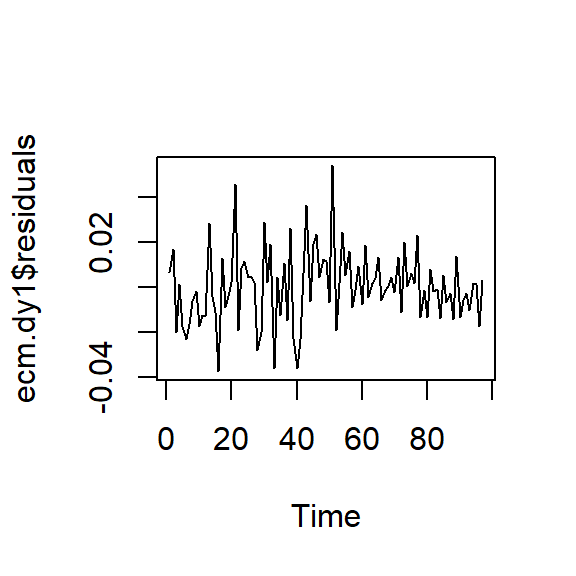
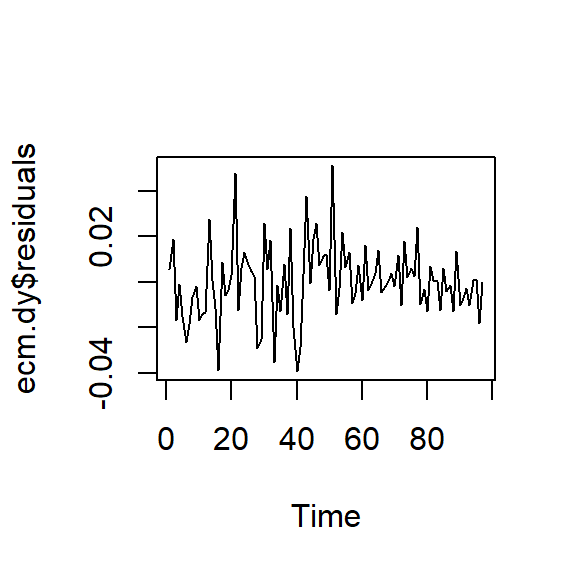
Tmea2_5

diff --git a/Tema_2/presentacion5.html b/Tema_2/presentacion5.html
@@ -918,7 +918,7 @@ tau1 -2.6 -1.95 -1.61</code></pre>
 <li>Arreglo de la base:</li>
 </ul>
 <div class="cell">
-<div class="sourceCode cell-code" id="cb26"><pre class="sourceCode numberSource r number-lines code-with-copy"><code class="sourceCode r"><span id="cb26-1"><a href=""></a>error.lagged <span class="ot">&lt;-</span> error[<span class="sc">-</span><span class="fu">c</span>(<span class="dv">1</span>, <span class="dv">99</span>)]</span>
+<div class="sourceCode cell-code" id="cb26"><pre class="sourceCode numberSource r number-lines code-with-copy"><code class="sourceCode r"><span id="cb26-1"><a href=""></a>error.lagged <span class="ot">&lt;-</span> error[<span class="sc">-</span><span class="fu">c</span>(<span class="dv">98</span>, <span class="dv">99</span>)]</span>
 <span id="cb26-2"><a href=""></a>dy <span class="ot">&lt;-</span> <span class="fu">diff</span>(y)</span>
 <span id="cb26-3"><a href=""></a>dx <span class="ot">&lt;-</span> <span class="fu">diff</span>(x)</span>
 <span id="cb26-4"><a href=""></a>diff.dat <span class="ot">&lt;-</span> <span class="fu">data.frame</span>(<span class="fu">embed</span>(<span class="fu">cbind</span>(dy, dx), <span class="dv">2</span>),error.lagged)</span>
@@ -926,103 +926,103 @@ tau1 -2.6 -1.95 -1.61</code></pre>
 <span id="cb26-6"><a href=""></a>diff.dat</span></code><button title="Copiar al portapapeles" class="code-copy-button"><i class="bi"></i></button></pre></div>
 <div class="cell-output cell-output-stdout">
 <pre><code>        dy      dx    dyl1    dxl1  error.lagged
-2   0.0190  0.0129 -0.0021  0.0062 -0.0168097165
-3   0.0272  0.0218  0.0190  0.0129 -0.0104056407
-4  -0.0117  0.0089  0.0272  0.0218 -0.0044917762
-5   0.0162  0.0257 -0.0117  0.0089 -0.0248819875
-6   0.0009 -0.0396  0.0162  0.0257 -0.0337761931
-7  -0.0184  0.0191  0.0009 -0.0396  0.0057903650
-8   0.0009  0.0041 -0.0184  0.0191 -0.0312594143
-9   0.0122 -0.0061  0.0009  0.0041 -0.0343627700
-10  0.0103  0.0101  0.0122 -0.0061 -0.0162065578
-11 -0.0053 -0.0003  0.0103  0.0101 -0.0157684830
-12  0.0011  0.0093 -0.0053 -0.0003 -0.0207755545
-13  0.0037 -0.0004  0.0011  0.0093 -0.0287563371
-14  0.0434  0.0162  0.0037 -0.0004 -0.0246657658
-15  0.0018  0.0151  0.0434  0.0162  0.0029160968
-16 -0.0012  0.0003  0.0018  0.0151 -0.0100279695
-17 -0.0268 -0.0062 -0.0012  0.0003 -0.0115208980
-18  0.0306  0.0204 -0.0268 -0.0062 -0.0322670429
-19  0.0050  0.0162  0.0306  0.0204 -0.0215861789
-20  0.0136  0.0107  0.0050  0.0162 -0.0324043163
-21  0.0187  0.0139  0.0136  0.0107 -0.0292520984
-22  0.0606  0.0215  0.0187  0.0139 -0.0241244508
-23 -0.0177  0.0129  0.0606  0.0215  0.0154823422
-24  0.0200  0.0123 -0.0177  0.0129 -0.0148135820
-25  0.0204  0.0359  0.0200  0.0123 -0.0068236493
-26  0.0185 -0.0097  0.0204  0.0359 -0.0214774229
-27  0.0089  0.0079  0.0185 -0.0097  0.0064939310
-28  0.0061 -0.0066  0.0089  0.0079  0.0076801479
-29 -0.0283 -0.0192  0.0061 -0.0066  0.0202245743
-30 -0.0169  0.0026 -0.0283 -0.0192  0.0106719963
-31  0.0382  0.0091 -0.0169  0.0026 -0.0087667171
-32  0.0018  0.0061  0.0382  0.0091  0.0205477860
-33  0.0199 -0.0064  0.0018  0.0061  0.0163915738
-34 -0.0438 -0.0005  0.0199 -0.0064  0.0425407145
-35  0.0113 -0.0119 -0.0438 -0.0005 -0.0007710714
-36 -0.0133 -0.0044  0.0113 -0.0119  0.0221484246
-37  0.0127  0.0057 -0.0133 -0.0044  0.0131447088
-38 -0.0150  0.0048  0.0127  0.0057  0.0202790679
-39  0.0326  0.0068 -0.0150  0.0048  0.0005922124
-40 -0.0249  0.0044  0.0326  0.0068  0.0265525004
-41 -0.0281 -0.0205 -0.0249  0.0044 -0.0026437839
-42 -0.0129 -0.0048 -0.0281 -0.0205 -0.0107270051
-43  0.0191  0.0115 -0.0129 -0.0048 -0.0189401496
-44  0.0465  0.0235  0.0191  0.0115 -0.0110690742
-45 -0.0036  0.0228  0.0465  0.0235  0.0124848623
-46  0.0302  0.0010 -0.0036  0.0228 -0.0133777015
-47  0.0249  0.0201  0.0302  0.0010  0.0158458703
-48  0.0040 -0.0030  0.0249  0.0201  0.0211196628
-49  0.0093  0.0104  0.0040 -0.0030  0.0280489475
-50  0.0091  0.0545  0.0093  0.0104  0.0271940939
-51  0.0058 -0.0410  0.0091  0.0545 -0.0169212449
-52  0.0507  0.0143  0.0058 -0.0410  0.0289123127
-53 -0.0349  0.0124  0.0507  0.0143  0.0656493890
-54  0.0020 -0.0230 -0.0349  0.0124  0.0186416789
-55  0.0162  0.0120  0.0020 -0.0230  0.0430995283
-56 -0.0041 -0.0161  0.0162  0.0120  0.0475823895
-57  0.0023  0.0111 -0.0041 -0.0161  0.0592028840
-58 -0.0194  0.0028  0.0023  0.0111  0.0506645306
-59 -0.0046  0.0001 -0.0194  0.0028  0.0285305316
-60  0.0078 -0.0017 -0.0046  0.0001  0.0238328887
-61 -0.0124 -0.0035  0.0078 -0.0017  0.0332928167
-62  0.0171  0.0049 -0.0124 -0.0035  0.0243103156
-63 -0.0104  0.0155  0.0171  0.0049  0.0366258172
-64  0.0046  0.0100 -0.0104  0.0155  0.0110911796
-65  0.0084  0.0145  0.0046  0.0100  0.0059268973
-66  0.0200  0.0077  0.0084  0.0145  0.0001686879
-67 -0.0036  0.0151  0.0200  0.0077  0.0126501905
-68  0.0074  0.0000 -0.0036  0.0151 -0.0056938759
-69  0.0066 -0.0018  0.0074  0.0000  0.0017061241
-70  0.0075  0.0117  0.0066 -0.0018  0.0100636950
-71  0.0023 -0.0083  0.0075  0.0117  0.0061394846
-72  0.0141  0.0144  0.0023 -0.0083  0.0165438390
-73 -0.0102  0.0116  0.0141  0.0144  0.0165832724
-74  0.0280  0.0029 -0.0102  0.0116 -0.0049432951
-75  0.0000  0.0178  0.0280  0.0029  0.0202250630
-76  0.0117  0.0086  0.0000  0.0178  0.0028446405
-77  0.0063  0.0207  0.0117  0.0086  0.0061473577
-78  0.0324  0.0254  0.0063  0.0207 -0.0077647068
-79 -0.0068  0.0037  0.0324  0.0254 -0.0001659839
-80  0.0088  0.0108 -0.0068  0.0037 -0.0105787684
-81 -0.0026  0.0070  0.0088  0.0108 -0.0123241933
-82  0.0221  0.0170 -0.0026  0.0070 -0.0217591909
-83  0.0105  0.0224  0.0221  0.0170 -0.0162584709
-84  0.0151  0.0148  0.0105  0.0224 -0.0276304633
-85  0.0021  0.0281  0.0151  0.0148 -0.0269816012
-86  0.0297  0.0050  0.0021  0.0281 -0.0523192346
-87  0.0094  0.0213  0.0297  0.0050 -0.0275013757
-88  0.0173  0.0105  0.0094  0.0213 -0.0388992971
-89  0.0033  0.0054  0.0173  0.0105 -0.0318517936
-90  0.0319  0.0108  0.0033  0.0054 -0.0338245060
-91 -0.0023 -0.0008  0.0319  0.0108 -0.0124699310
-92  0.0055  0.0080 -0.0023 -0.0008 -0.0139887884
-93  0.0096  0.0004  0.0055  0.0080 -0.0163002142
-94 -0.0013  0.0082  0.0096  0.0004 -0.0070907855
-95  0.0139 -0.0064 -0.0013  0.0082 -0.0163974970
-96  0.0066 -0.0064  0.0139 -0.0064  0.0037516436
-97 -0.0163 -0.0029  0.0066 -0.0064  0.0166007843
-98  0.0087 -0.0012 -0.0163 -0.0029  0.0031324262</code></pre>
+1   0.0190  0.0129 -0.0021  0.0062 -0.0086558614
+2   0.0272  0.0218  0.0190  0.0129 -0.0168097165
+3  -0.0117  0.0089  0.0272  0.0218 -0.0104056407
+4   0.0162  0.0257 -0.0117  0.0089 -0.0044917762
+5   0.0009 -0.0396  0.0162  0.0257 -0.0248819875
+6  -0.0184  0.0191  0.0009 -0.0396 -0.0337761931
+7   0.0009  0.0041 -0.0184  0.0191  0.0057903650
+8   0.0122 -0.0061  0.0009  0.0041 -0.0312594143
+9   0.0103  0.0101  0.0122 -0.0061 -0.0343627700
+10 -0.0053 -0.0003  0.0103  0.0101 -0.0162065578
+11  0.0011  0.0093 -0.0053 -0.0003 -0.0157684830
+12  0.0037 -0.0004  0.0011  0.0093 -0.0207755545
+13  0.0434  0.0162  0.0037 -0.0004 -0.0287563371
+14  0.0018  0.0151  0.0434  0.0162 -0.0246657658
+15 -0.0012  0.0003  0.0018  0.0151  0.0029160968
+16 -0.0268 -0.0062 -0.0012  0.0003 -0.0100279695
+17  0.0306  0.0204 -0.0268 -0.0062 -0.0115208980
+18  0.0050  0.0162  0.0306  0.0204 -0.0322670429
+19  0.0136  0.0107  0.0050  0.0162 -0.0215861789
+20  0.0187  0.0139  0.0136  0.0107 -0.0324043163
+21  0.0606  0.0215  0.0187  0.0139 -0.0292520984
+22 -0.0177  0.0129  0.0606  0.0215 -0.0241244508
+23  0.0200  0.0123 -0.0177  0.0129  0.0154823422
+24  0.0204  0.0359  0.0200  0.0123 -0.0148135820
+25  0.0185 -0.0097  0.0204  0.0359 -0.0068236493
+26  0.0089  0.0079  0.0185 -0.0097 -0.0214774229
+27  0.0061 -0.0066  0.0089  0.0079  0.0064939310
+28 -0.0283 -0.0192  0.0061 -0.0066  0.0076801479
+29 -0.0169  0.0026 -0.0283 -0.0192  0.0202245743
+30  0.0382  0.0091 -0.0169  0.0026  0.0106719963
+31  0.0018  0.0061  0.0382  0.0091 -0.0087667171
+32  0.0199 -0.0064  0.0018  0.0061  0.0205477860
+33 -0.0438 -0.0005  0.0199 -0.0064  0.0163915738
+34  0.0113 -0.0119 -0.0438 -0.0005  0.0425407145
+35 -0.0133 -0.0044  0.0113 -0.0119 -0.0007710714
+36  0.0127  0.0057 -0.0133 -0.0044  0.0221484246
+37 -0.0150  0.0048  0.0127  0.0057  0.0131447088
+38  0.0326  0.0068 -0.0150  0.0048  0.0202790679
+39 -0.0249  0.0044  0.0326  0.0068  0.0005922124
+40 -0.0281 -0.0205 -0.0249  0.0044  0.0265525004
+41 -0.0129 -0.0048 -0.0281 -0.0205 -0.0026437839
+42  0.0191  0.0115 -0.0129 -0.0048 -0.0107270051
+43  0.0465  0.0235  0.0191  0.0115 -0.0189401496
+44 -0.0036  0.0228  0.0465  0.0235 -0.0110690742
+45  0.0302  0.0010 -0.0036  0.0228  0.0124848623
+46  0.0249  0.0201  0.0302  0.0010 -0.0133777015
+47  0.0040 -0.0030  0.0249  0.0201  0.0158458703
+48  0.0093  0.0104  0.0040 -0.0030  0.0211196628
+49  0.0091  0.0545  0.0093  0.0104  0.0280489475
+50  0.0058 -0.0410  0.0091  0.0545  0.0271940939
+51  0.0507  0.0143  0.0058 -0.0410 -0.0169212449
+52 -0.0349  0.0124  0.0507  0.0143  0.0289123127
+53  0.0020 -0.0230 -0.0349  0.0124  0.0656493890
+54  0.0162  0.0120  0.0020 -0.0230  0.0186416789
+55 -0.0041 -0.0161  0.0162  0.0120  0.0430995283
+56  0.0023  0.0111 -0.0041 -0.0161  0.0475823895
+57 -0.0194  0.0028  0.0023  0.0111  0.0592028840
+58 -0.0046  0.0001 -0.0194  0.0028  0.0506645306
+59  0.0078 -0.0017 -0.0046  0.0001  0.0285305316
+60 -0.0124 -0.0035  0.0078 -0.0017  0.0238328887
+61  0.0171  0.0049 -0.0124 -0.0035  0.0332928167
+62 -0.0104  0.0155  0.0171  0.0049  0.0243103156
+63  0.0046  0.0100 -0.0104  0.0155  0.0366258172
+64  0.0084  0.0145  0.0046  0.0100  0.0110911796
+65  0.0200  0.0077  0.0084  0.0145  0.0059268973
+66 -0.0036  0.0151  0.0200  0.0077  0.0001686879
+67  0.0074  0.0000 -0.0036  0.0151  0.0126501905
+68  0.0066 -0.0018  0.0074  0.0000 -0.0056938759
+69  0.0075  0.0117  0.0066 -0.0018  0.0017061241
+70  0.0023 -0.0083  0.0075  0.0117  0.0100636950
+71  0.0141  0.0144  0.0023 -0.0083  0.0061394846
+72 -0.0102  0.0116  0.0141  0.0144  0.0165438390
+73  0.0280  0.0029 -0.0102  0.0116  0.0165832724
+74  0.0000  0.0178  0.0280  0.0029 -0.0049432951
+75  0.0117  0.0086  0.0000  0.0178  0.0202250630
+76  0.0063  0.0207  0.0117  0.0086  0.0028446405
+77  0.0324  0.0254  0.0063  0.0207  0.0061473577
+78 -0.0068  0.0037  0.0324  0.0254 -0.0077647068
+79  0.0088  0.0108 -0.0068  0.0037 -0.0001659839
+80 -0.0026  0.0070  0.0088  0.0108 -0.0105787684
+81  0.0221  0.0170 -0.0026  0.0070 -0.0123241933
+82  0.0105  0.0224  0.0221  0.0170 -0.0217591909
+83  0.0151  0.0148  0.0105  0.0224 -0.0162584709
+84  0.0021  0.0281  0.0151  0.0148 -0.0276304633
+85  0.0297  0.0050  0.0021  0.0281 -0.0269816012
+86  0.0094  0.0213  0.0297  0.0050 -0.0523192346
+87  0.0173  0.0105  0.0094  0.0213 -0.0275013757
+88  0.0033  0.0054  0.0173  0.0105 -0.0388992971
+89  0.0319  0.0108  0.0033  0.0054 -0.0318517936
+90 -0.0023 -0.0008  0.0319  0.0108 -0.0338245060
+91  0.0055  0.0080 -0.0023 -0.0008 -0.0124699310
+92  0.0096  0.0004  0.0055  0.0080 -0.0139887884
+93 -0.0013  0.0082  0.0096  0.0004 -0.0163002142
+94  0.0139 -0.0064 -0.0013  0.0082 -0.0070907855
+95  0.0066 -0.0064  0.0139 -0.0064 -0.0163974970
+96 -0.0163 -0.0029  0.0066 -0.0064  0.0037516436
+97  0.0087 -0.0012 -0.0163 -0.0029  0.0166007843</code></pre>
 </div>
 </div>
 </div><div class="column" style="width:50%;">
@@ -1032,9 +1032,7 @@ tau1 -2.6 -1.95 -1.61</code></pre>
 <div class="cell">
 <div class="sourceCode cell-code" id="cb28"><pre class="sourceCode numberSource r number-lines code-with-copy"><code class="sourceCode r"><span id="cb28-1"><a href=""></a>ecm.dy <span class="ot">&lt;-</span> <span class="fu">lm</span>(dy <span class="sc">~</span> error.lagged <span class="sc">+</span> dyl1 <span class="sc">+</span> dxl1,</span>
 <span id="cb28-2"><a href=""></a>              <span class="at">data=</span>diff.dat)</span>
-<span id="cb28-3"><a href=""></a>ecm.dy1 <span class="ot">&lt;-</span> <span class="fu">lm</span>(dy <span class="sc">~</span> error.lagged,</span>
-<span id="cb28-4"><a href=""></a>               <span class="at">data=</span>diff.dat)</span>
-<span id="cb28-5"><a href=""></a><span class="fu">summary</span>(ecm.dy)</span></code><button title="Copiar al portapapeles" class="code-copy-button"><i class="bi"></i></button></pre></div>
+<span id="cb28-3"><a href=""></a><span class="fu">summary</span>(ecm.dy)</span></code><button title="Copiar al portapapeles" class="code-copy-button"><i class="bi"></i></button></pre></div>
 <div class="cell-output cell-output-stdout">
 <pre><code>
 Call:
@@ -1048,8 +1046,8 @@ Coefficients:
               Estimate Std. Error t value Pr(&gt;|t|)    
 (Intercept)   0.007745   0.001897   4.084 9.38e-05 ***
 error.lagged -0.337795   0.079879  -4.229 5.49e-05 ***
-dyl1         -0.110935   0.102115  -1.086    0.280    
-dxl1         -0.053828   0.143024  -0.376    0.708    
+dyl1         -0.448730   0.109085  -4.114 8.41e-05 ***
+dxl1          0.276004   0.130244   2.119   0.0367 *  
 ---
 Signif. codes:  0 '***' 0.001 '**' 0.01 '*' 0.05 '.' 0.1 ' ' 1
 
@@ -1083,9 +1081,9 @@ Residuals:
 Coefficients:
               Estimate Std. Error t value Pr(&gt;|t|)    
 (Intercept)   0.006742   0.001496   4.508 1.91e-05 ***
-error.lagged -0.119781   0.062995  -1.901 0.060341 .  
-dyl1          0.287454   0.080531   3.569 0.000568 ***
-dxl1         -0.320035   0.112794  -2.837 0.005584 ** 
+error.lagged -0.119781   0.062995  -1.901   0.0603 .  
+dyl1          0.167672   0.086028   1.949   0.0543 .  
+dxl1         -0.203078   0.102715  -1.977   0.0510 .  
 ---
 Signif. codes:  0 '***' 0.001 '**' 0.01 '*' 0.05 '.' 0.1 ' ' 1
 
@@ -1099,8 +1097,8 @@ F-statistic: 5.048 on 3 and 93 DF,  p-value: 0.002767</code></pre>
 <li>De esta forma, tenemos estas ecuaciones:</li>
 </ul>
 <p><span class="math display">\[\begin{aligned}
-        \nabla Y_t &amp;= 0.008 -0.338 \hat{z}_{t-1} + \epsilon_{1,t} \\
-        \nabla X_t &amp;= 0.007 -0.12 \hat{z}_{t-1} + 0.287 \nabla Y_{t-1} -0.32 \nabla X_{t-1} + \epsilon_{2,t}
+        \nabla Y_t &amp;= 0.008 -0.338 \hat{z}_{t-1} -0.4487 \nabla Y_{t-1} -0.276 \nabla X_{t-1}+ \epsilon_{1,t} \\
+        \nabla X_t &amp;= 0.007 -0.12 \hat{z}_{t-1} + 0.168 \nabla Y_{t-1} -0.203 \nabla X_{t-1} + \epsilon_{2,t}
 \end{aligned}\]</span></p>
 </div></div>
 </section>
@@ -1109,7 +1107,7 @@ F-statistic: 5.048 on 3 and 93 DF,  p-value: 0.002767</code></pre>
 <div class="columns">
 <div class="column" style="width:50%;">
 <div class="cell">
-<div class="sourceCode cell-code" id="cb32"><pre class="sourceCode numberSource r number-lines code-with-copy"><code class="sourceCode r"><span id="cb32-1"><a href=""></a><span class="fu">ts.plot</span>(ecm.dy1<span class="sc">$</span>residuals)</span></code><button title="Copiar al portapapeles" class="code-copy-button"><i class="bi"></i></button></pre></div>
+<div class="sourceCode cell-code" id="cb32"><pre class="sourceCode numberSource r number-lines code-with-copy"><code class="sourceCode r"><span id="cb32-1"><a href=""></a><span class="fu">ts.plot</span>(ecm.dy<span class="sc">$</span>residuals)</span></code><button title="Copiar al portapapeles" class="code-copy-button"><i class="bi"></i></button></pre></div>
 <div class="cell-output-display">
 <div>
 <figure>
@@ -1117,7 +1115,7 @@ F-statistic: 5.048 on 3 and 93 DF,  p-value: 0.002767</code></pre>
 </figure>
 </div>
 </div>
-<div class="sourceCode cell-code" id="cb33"><pre class="sourceCode numberSource r number-lines code-with-copy"><code class="sourceCode r"><span id="cb33-1"><a href=""></a><span class="fu">acf</span>(ecm.dy1<span class="sc">$</span>residuals)</span></code><button title="Copiar al portapapeles" class="code-copy-button"><i class="bi"></i></button></pre></div>
+<div class="sourceCode cell-code" id="cb33"><pre class="sourceCode numberSource r number-lines code-with-copy"><code class="sourceCode r"><span id="cb33-1"><a href=""></a><span class="fu">acf</span>(ecm.dy<span class="sc">$</span>residuals)</span></code><button title="Copiar al portapapeles" class="code-copy-button"><i class="bi"></i></button></pre></div>
 <div class="cell-output-display">
 <div>
 <figure>
